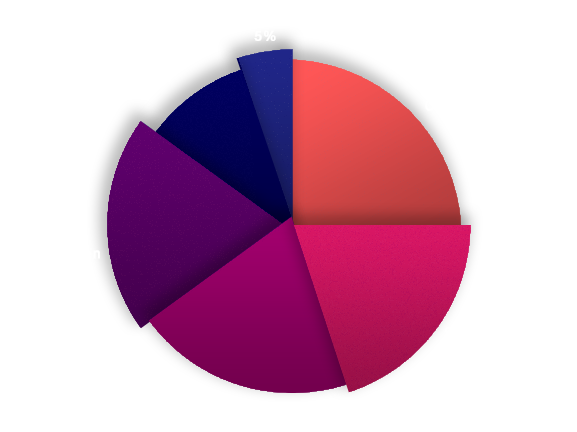
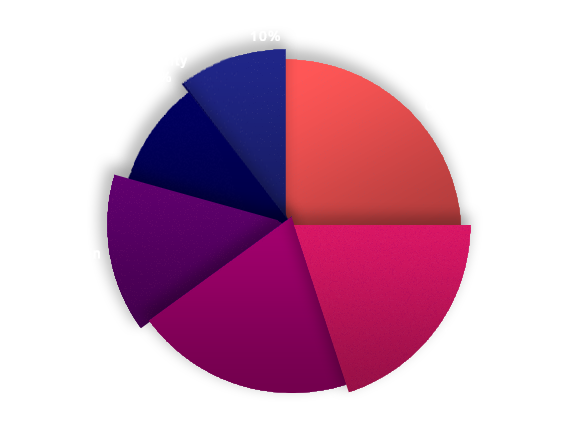
Changes Done

Changed region(s): [[0.1872, 0.0903, 0.5303, 0.5116]]

diff --git a/src/Components/Tokenomics/Tokenomics.jsx b/src/Components/Tokenomics/Tokenomics.jsx
@@ -27,7 +27,7 @@ export default function Tokenomics() {
                             Company reserve: 25% (Fully locked for 1 year)
                         </div>
                         <div className="token-para-1" data-aos="fade-up">
-                            Marketing, Staking Rewards and Ecosystem: 20% (20% unlocked at TGE, 10% unlocked each month)
+                            Marketing, Staking Rewards and Ecosystem: 20% (10% unlocked at TGE, 10% unlocked each month)
                         </div>
                         <div className="token-para-1" data-aos="fade-up">
                             Team: 20% ( 6 months cliff, 10% unlocked each month thereafter)
@@ -36,10 +36,10 @@ export default function Tokenomics() {
                             Liquidity: 10% (20% unlocked at TGE , 20% unlocked each month thereafter)
                         </div>
                         <div className="token-para-1" data-aos="fade-up">
-                            Public Token Sale: 20% (40% unlocked at TGE followed by 20% every two weeks)
+                            Public Token Sale: 15% (40% unlocked at TGE followed by 20% every two weeks)
                         </div>
                         <div className="token-para-1" data-aos="fade-up">
-                            Partners: 5% (20% unlocked at TGE followed by 20% every two weeks)
+                            Partners: 10% (20% unlocked at TGE followed by 20% every two weeks)
                         </div>
                     </div>
                 

diff --git a/src/Components/Home/Home.jsx b/src/Components/Home/Home.jsx
@@ -1,4 +1,5 @@
 import React from 'react';
+import Banner from '../../Images/banner.gif';
 import Circles from "../../Images/circles.png";
 import FeatureImg from '../../Images/featureimg.png';
 import Particles from '../../Particles';
@@ -26,7 +27,7 @@ export default function Home() {
                 </div>
                 
                 <div className="home-right" >
-                    <img id="anim-img" src="https://multipad.co/162fc25721d32ca0accf57ebe0e5d952.gif" alt="" />
+                    <img id="anim-img" src={Banner} alt="" />
                 </div>
             </div>
 

diff --git a/src/pages/LandingPage.jsx b/src/pages/LandingPage.jsx
@@ -49,7 +49,7 @@ function LandingPage() {
       
       <Home />
       <WhyMultipad/>
-      <ProbAndSol />
+      {/* <ProbAndSol /> */}
       <TokenUtility />
       <Tokenomics />
       {/* <TokenSale/> */}
